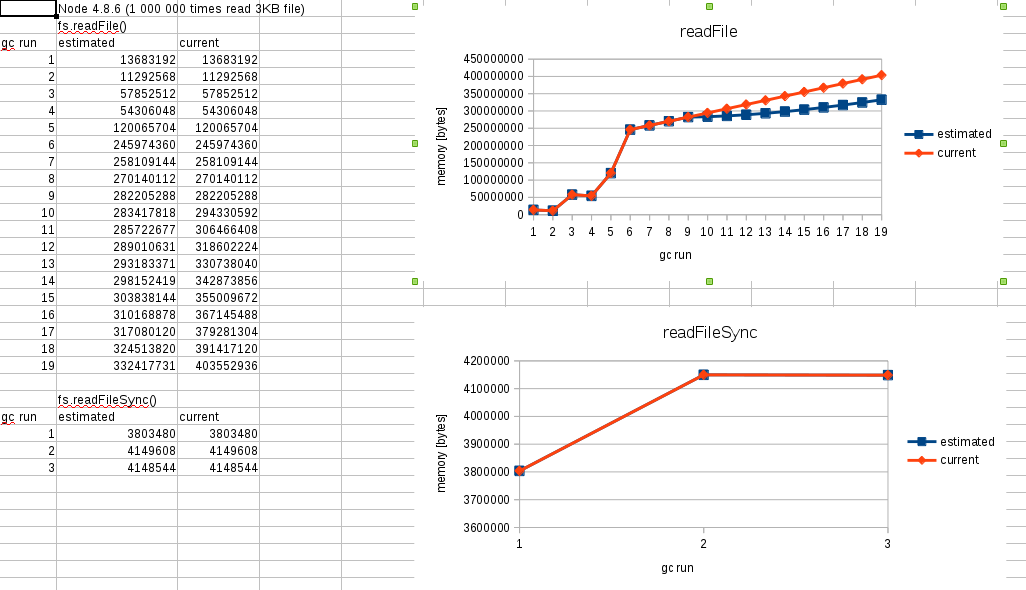
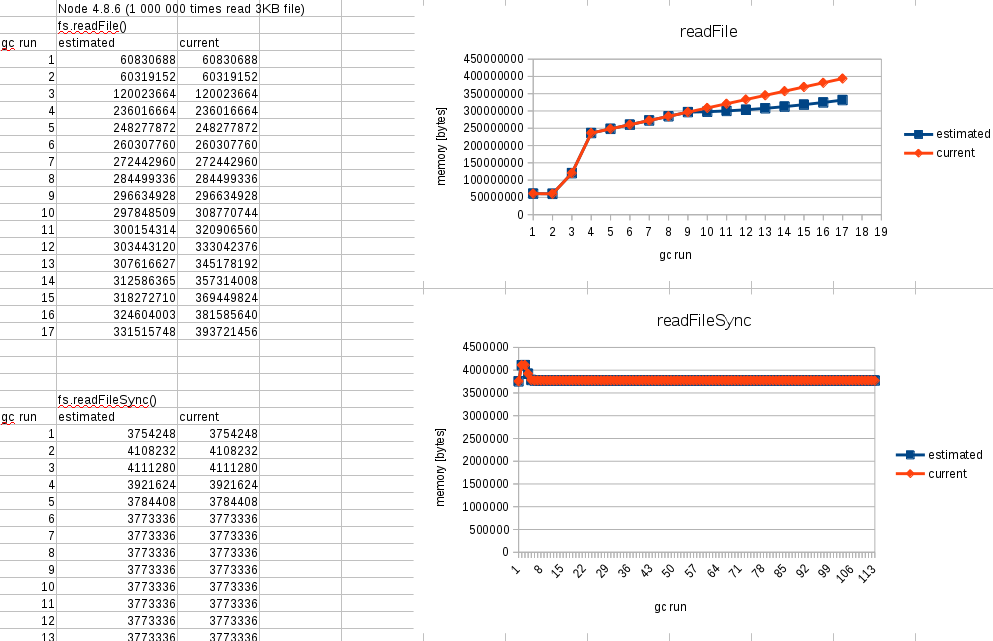
removed path

diff --git a/index.js b/index.js
@@ -1,15 +1,15 @@
 var fs = require('fs');
-var path = require('path');
 var memwatch = require('memwatch-next');
 
 function readFile() {
-    fs.readFile(path.resolve('file-to-read.txt'), function (err, buffer) {
-        buffer = null;
+    fs.readFile('file-to-read.txt', function (err, content) {
+        // console.log("" + content);
     });
 }
 
 function readFileSync() {
-    var fileContent = fs.readFileSync(path.resolve('file-to-read.txt'));
+    var content = fs.readFileSync('file-to-read.txt');
+    // console.log("" + content);
 }
 
 memwatch.on('stats', function(stats) { 
@@ -17,7 +17,8 @@ memwatch.on('stats', function(stats) {
 });
 
 for(var i = 0; i < 1000000; i++) {
-    readFileSync();
+    readFile();
+    // readFileSync();
     if (i === 500000) {
         console.log("run gc");
         global.gc();
